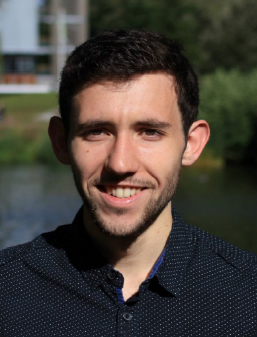
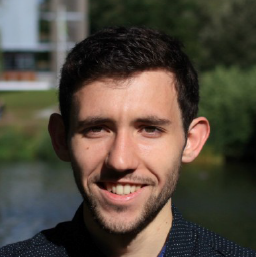
Gestion de l'ajout de la photo en medium -> reste à gérer le reste du header en medium aussi

diff --git a/src/app/header/header.component.scss b/src/app/header/header.component.scss
@@ -20,6 +20,13 @@
             align-items: center;
         padding: 0.5rem;
         width: 100%;
+
+        
+p {
+    font-family: $font-family;
+    font-weight: $font-weight-semibold;
+    color: $white
+}
  
         .photo{
             display: none;
@@ -45,24 +52,19 @@
     height: 1.5rem;
 }
 
-p {
-    font-family: $font-family;
-    font-weight: $font-weight-semibold;
-    color: $white
-}
-
-// TODO:ajouter ma photo dès 400 en small ou après en medium ?
-@include media_queries('small') {
-    .photo{
+@include media_queries('medium') {
+    .banner .details .photo{
         display: block;
-        width: 5rem;
-        height: 5rem;
+        margin-left: auto;
+        width: 3rem;
+        height: 3rem;
         border-radius: 50%;
         // TODO:gérer format css dans pretier : https://stackoverflow.com/questions/54753495/how-to-edit-auto-formatting-rules-for-css-scss-less-using-prettier-in-vscode
 border-color: $white;
 border-width: 2px;
 border-style: solid;
-    }
+
+}
 }
 
 // @include media_queries('medium') {

diff --git a/src/app/header/header.component.html b/src/app/header/header.component.html
@@ -12,11 +12,7 @@
             <p>Bastien LAHAYE</p>
             <p>Développeur full stack</p>
         </div>
-        <img
-            class="photo"
-            src="../../assets/photo-cv-carre.png"
-            alt="Photo CV"
-        />
+        <img class="photo" src="../../assets/photo-cv.png" alt="Photo CV" />
         <a
             class="icon linkedin-icon"
             href="https://www.linkedin.com/in/bastien-lahaye-15a233156/"
